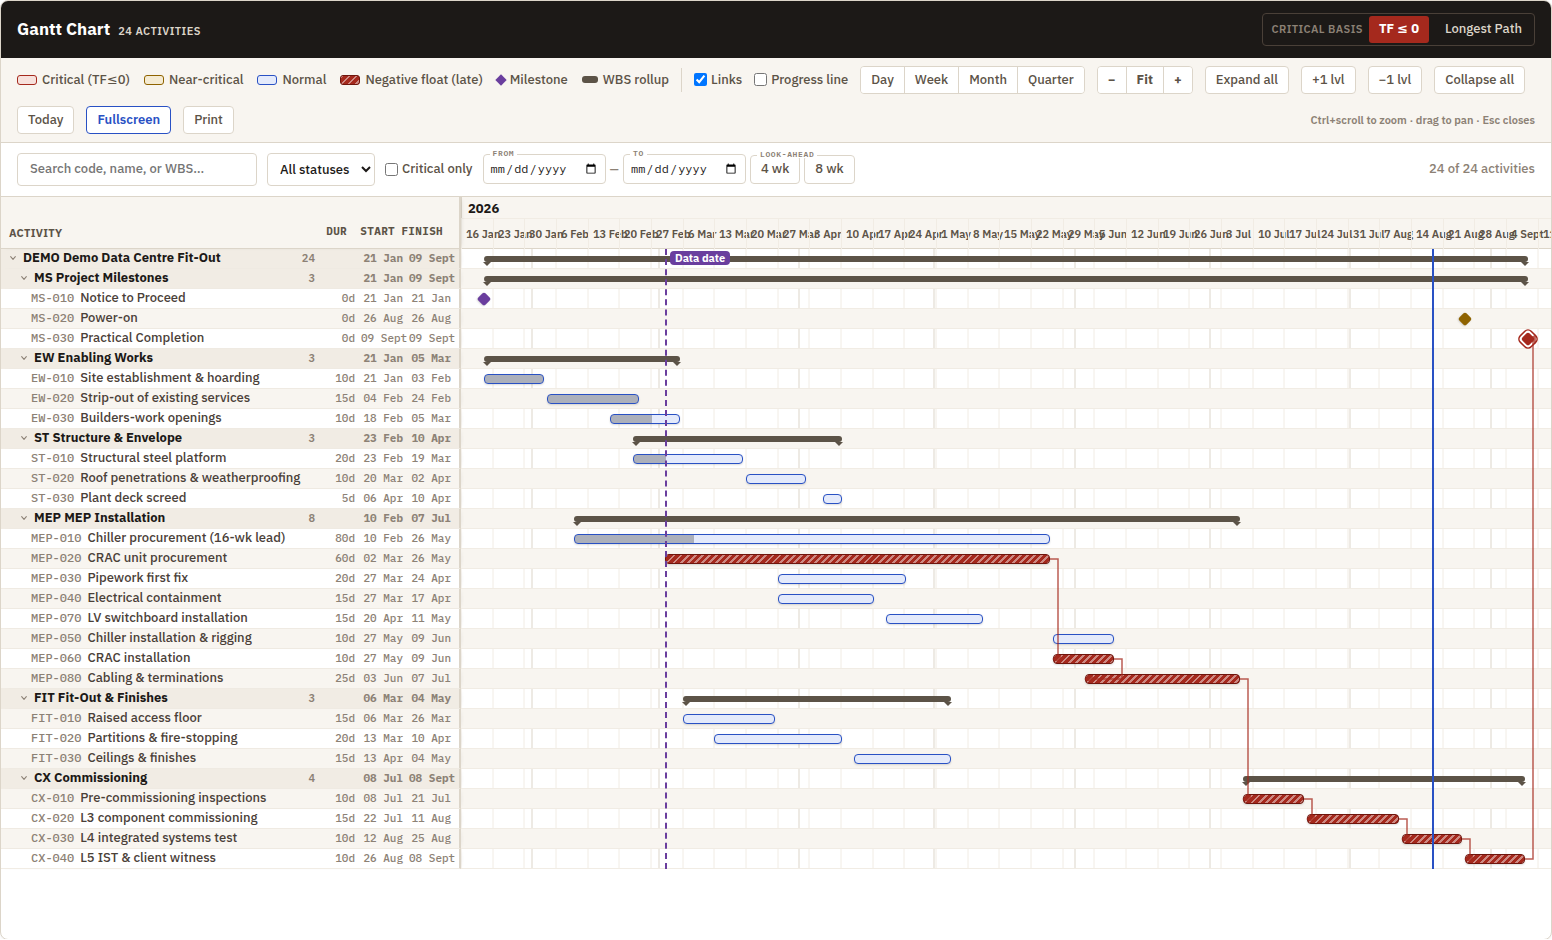
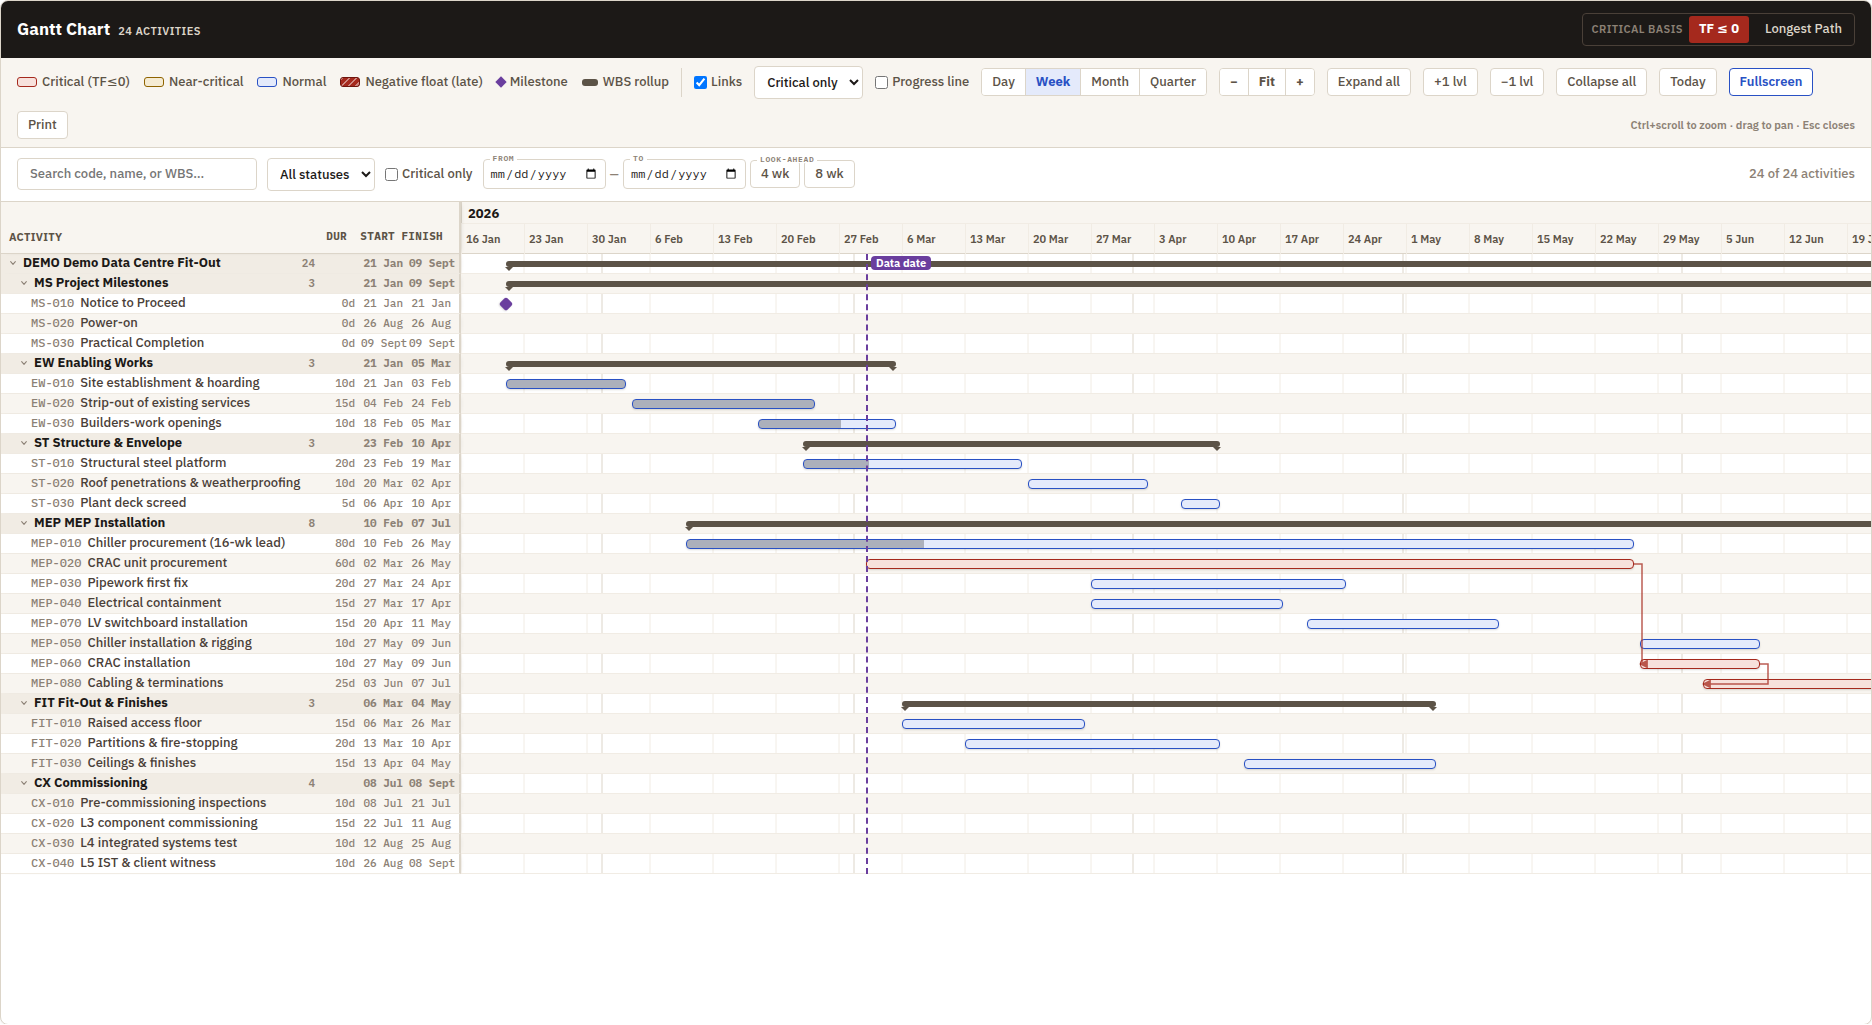
Sample: no open ends, no negative float; Gantt link scope toggle
Sample schedule:
- Tie MEP-010/MEP-020 (long-lead procurement) into MS-010 (NTP) and
  MS-020 (Power-on) into CX-040 (client witness) — no open ends remain
  except the true project start/finish milestones
- MS-030's MEOB constraint now lands exactly on its computed finish
  (09-Sep-26) instead of one day before it — the whole longest-path
  chain sits at 0d float instead of -1d; zero negative float in the file
- Fixed a generator bug this surfaced: the longest-path trace was
  skipping completed predecessors when computing driving links, which
  no longer matches the backend's real trace once MS-010 became a
  predecessor of an on-path activity — dropped that skip, zero driving-
  flag mismatches now
- README screenshots regenerated

Gantt:
- 'Links' now pairs with a scope select: 'Critical only' (previous
  behavior, still default) or 'All logic' — draws every relationship,
  critical spine in red and other logic in blue via the existing chain
  styling

Claude-Session: https://claude.ai/code/session_0114n3XnQ6q2G7FCFR9mKC8B

diff --git a/frontend/src/components/GanttChart.vue b/frontend/src/components/GanttChart.vue
@@ -33,6 +33,10 @@
       <div class="control-divider"></div>
 
       <label class="ctrl-toggle"><input type="checkbox" v-model="showLinks" /> Links</label>
+      <select v-if="showLinks" v-model="linksScope" class="filter-select linkscope-select" title="Which relationships to draw">
+        <option value="critical">Critical only</option>
+        <option value="all">All logic</option>
+      </select>
       <label class="ctrl-toggle"><input type="checkbox" v-model="showProgressLine" /> Progress line</label>
       <label v-if="baseline" class="ctrl-toggle" title="Ghost bars at each activity's position in the compared snapshot"><input type="checkbox" v-model="showBaseline" /> Baseline</label>
       <div class="zoom-group">
@@ -402,6 +406,7 @@ export default {
       filterCollapsed: new Set(),
       showBaseline: true,
       showLinks: saved.showLinks ?? true,
+      linksScope: saved.linksScope || 'critical',
       showProgressLine: saved.showProgressLine ?? false,
       selectedTaskId: null,
       isFullscreen: false,
@@ -452,6 +457,7 @@ export default {
     zoom() { this.persistView() },
     criticalBasis() { this.persistView() },
     showLinks() { this.persistView() },
+    linksScope() { this.persistView() },
     showProgressLine() { this.persistView() },
     dayWidthOverride() { this.persistView() },
     jumpTo: {
@@ -722,16 +728,18 @@ export default {
       const rowByIndex = this.rows
       for (const row of rowByIndex) {
         if (row.type !== 'activity') continue
-        // Normal mode: only critical-to-critical links (per the selected basis).
-        // Isolation mode: every relationship between two traced activities, with
-        // non-critical ones styled as "chain" links so the critical core still stands out.
-        if (!this.isolationActive && !this.isBasisCritical(row.activity)) continue
+        // Normal mode: "Critical only" scope draws just critical-to-critical links (per
+        // the selected basis) to keep large schedules legible; "All logic" draws every
+        // relationship. Isolation mode always draws every relationship between traced
+        // activities, with non-critical ones styled as "chain" links.
+        const criticalScope = !this.isolationActive && this.linksScope === 'critical'
+        if (criticalScope && !this.isBasisCritical(row.activity)) continue
         for (const p of row.activity.predecessors || []) {
           const predIdx = this.rowIndexByTaskId.get(p.task_id)
           if (predIdx === undefined) continue
           const predRow = rowByIndex[predIdx]
           const bothCritical = this.isBasisCritical(row.activity) && this.isBasisCritical(predRow.activity)
-          if (!this.isolationActive && !bothCritical) continue
+          if (criticalScope && !bothCritical) continue
           const predX = this.dateToX(displayEnd(predRow.activity))
           const predY = predIdx * ROW_HEIGHT + ROW_HEIGHT / 2
           const succX = row.x
@@ -1043,6 +1051,7 @@ export default {
         zoom: this.zoom,
         criticalBasis: this.criticalBasis,
         showLinks: this.showLinks,
+        linksScope: this.linksScope,
         showProgressLine: this.showProgressLine,
         labelColWidth: this.labelColWidth,
         dayWidthOverride: this.dayWidthOverride,
